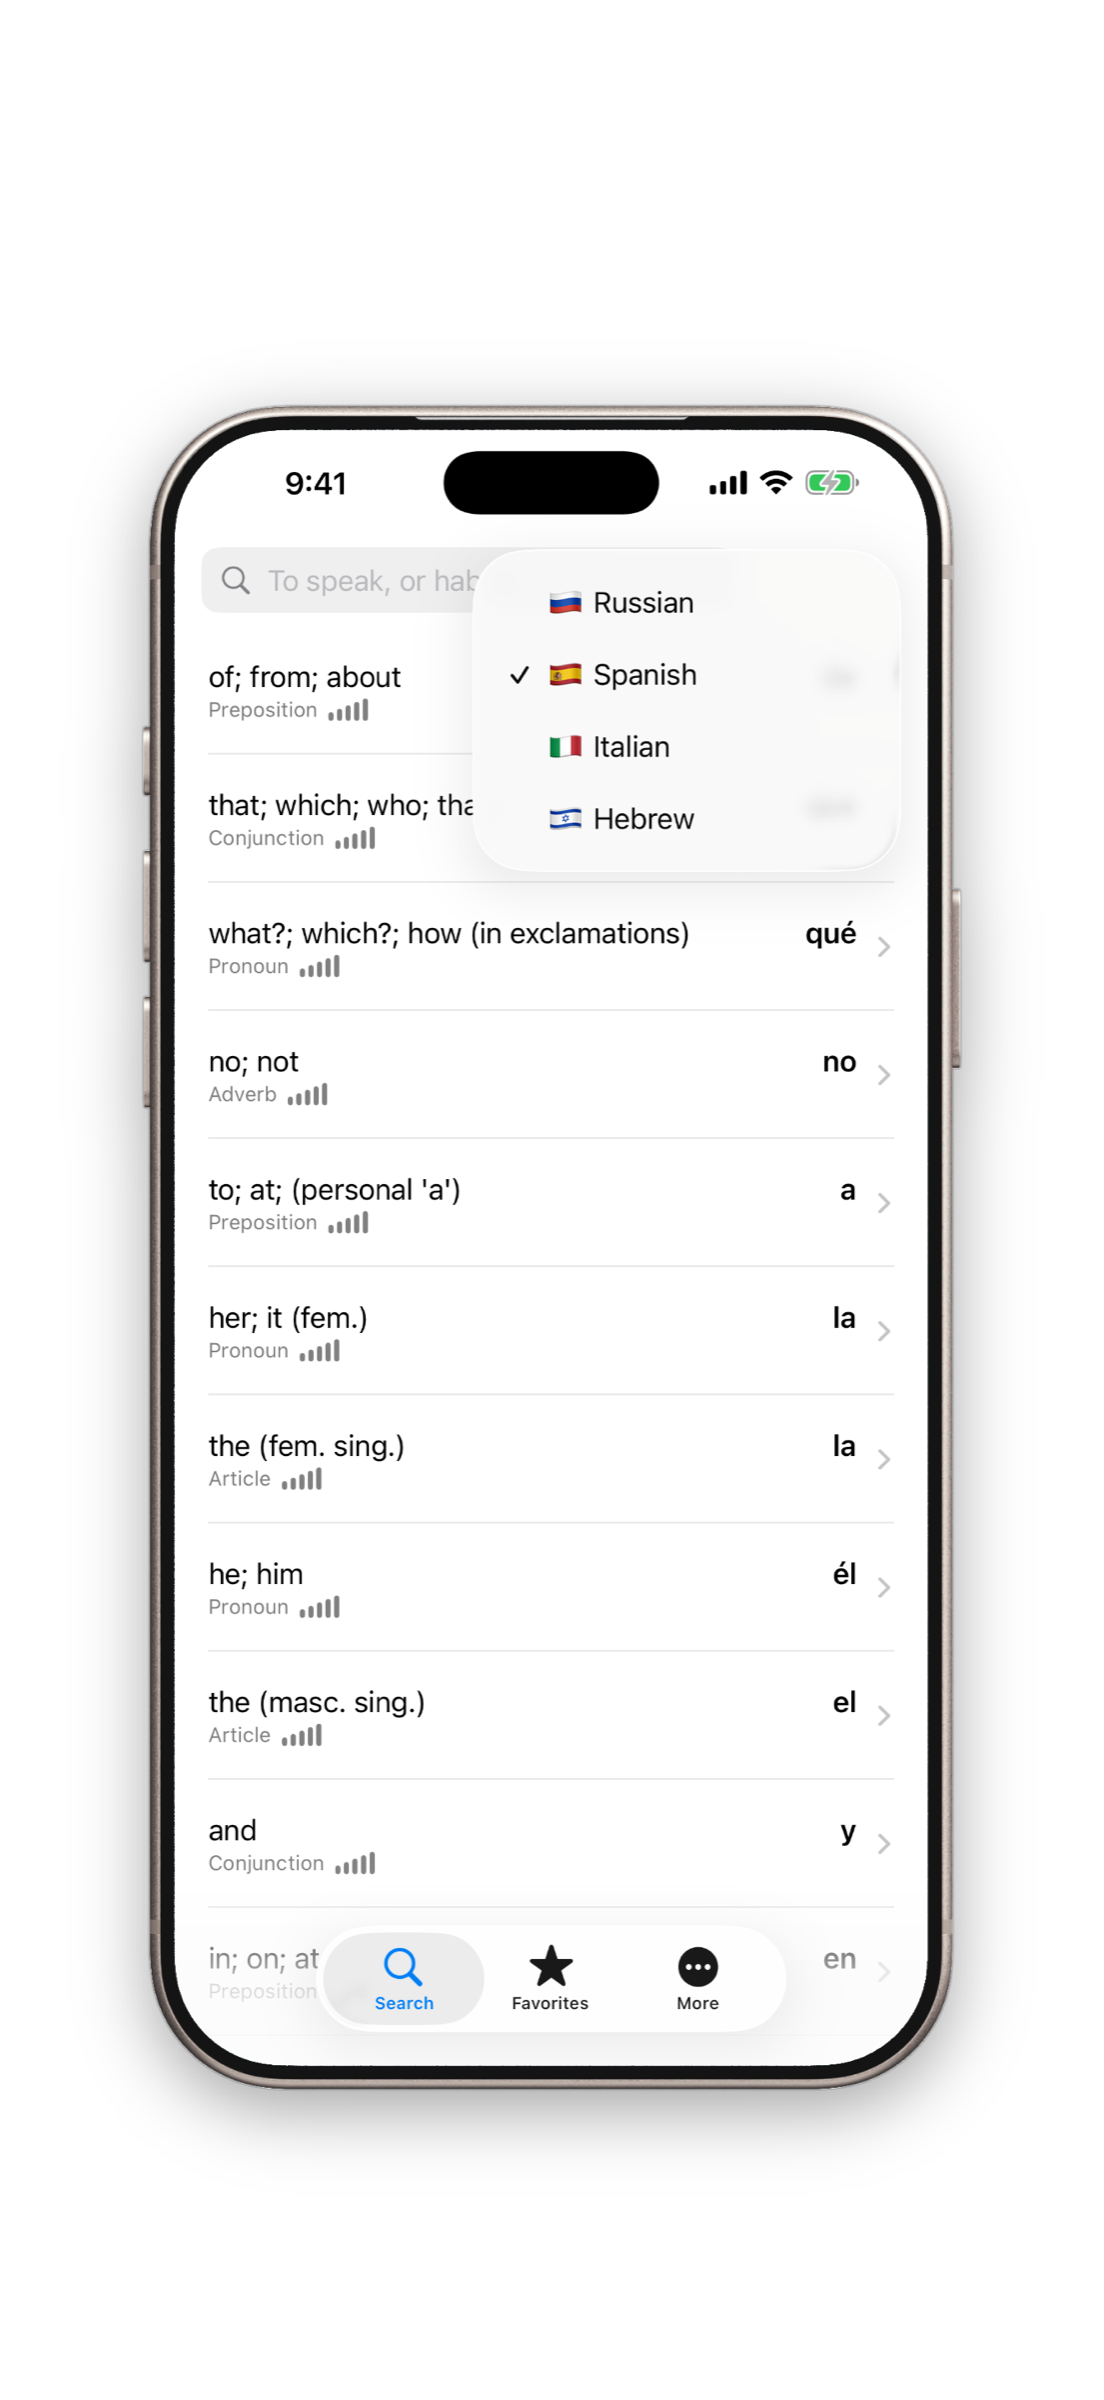
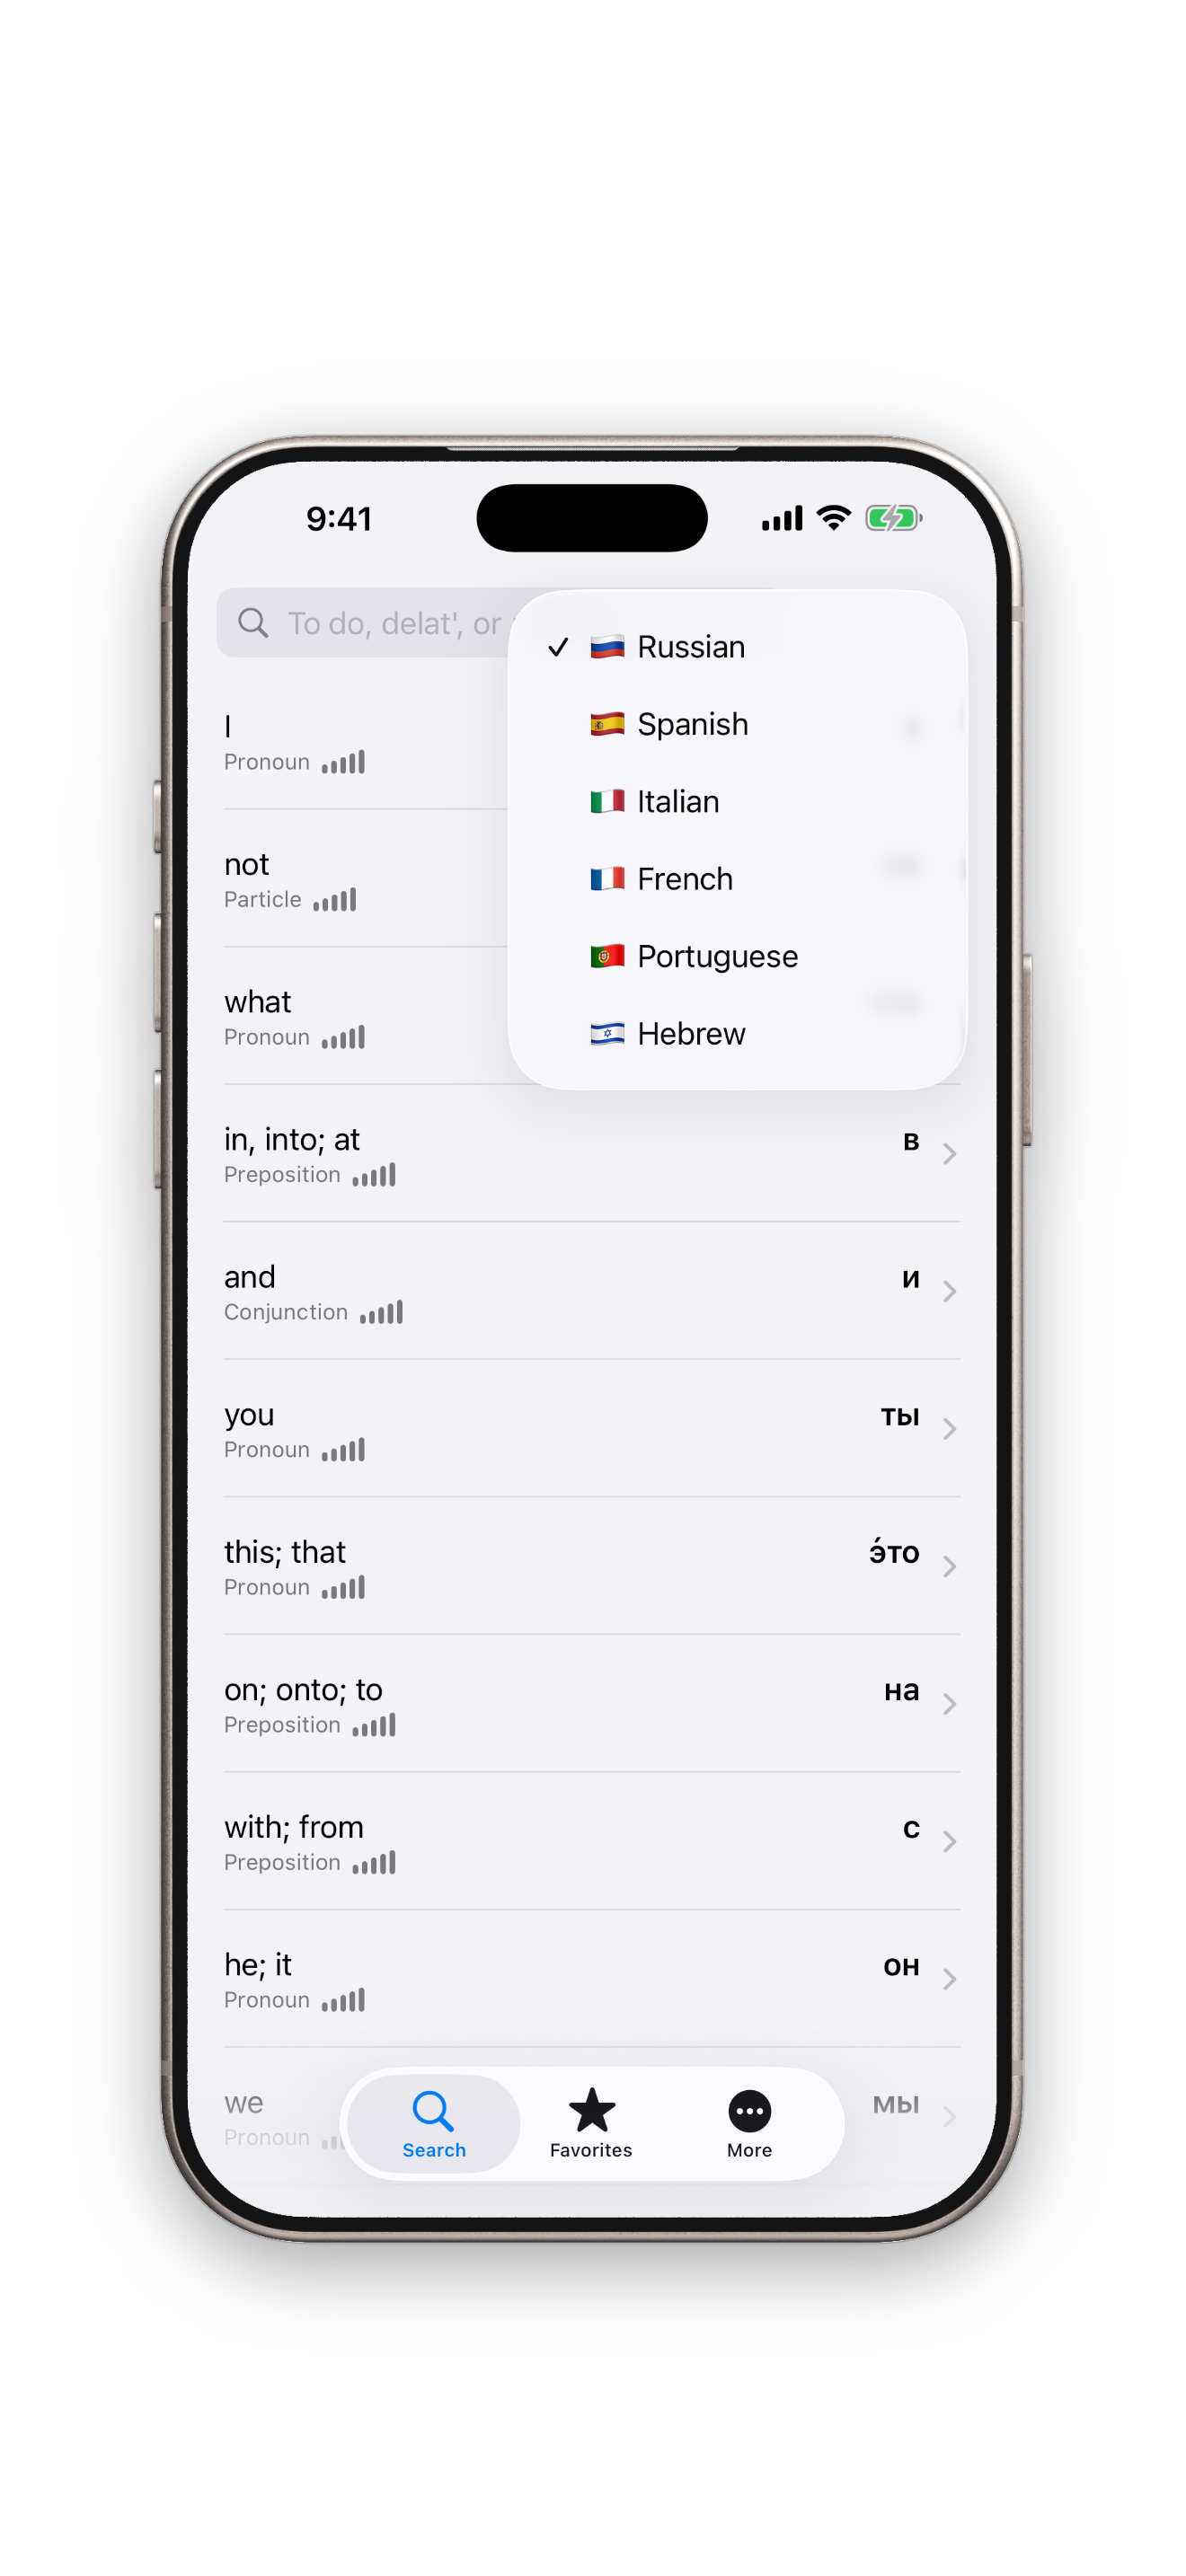
Use framed screenshots for French, Portuguese, and hero dropdown
The French and Portuguese pages now use framed captures like the other
four languages instead of raw captures in a CSS frame, and the homepage
hero center phone shows the six-language dropdown.

Claude-Session: https://claude.ai/code/session_011xa2pL4yvVYgio2WjePZip

diff --git a/src/config/languages.ts b/src/config/languages.ts
@@ -121,9 +121,8 @@ export const dictionaryPages: DictionaryPageConfig[] = [
         description: "Search French conjugated forms offline on iPhone. Verbik finds the infinitive and shows sourced meanings, detailed verb tables, pronunciation, examples, nouns, and adjectives.",
         heading: "A French verb dictionary that starts with the form you found",
         intro: "Search a French headword, conjugated form, inflected noun or adjective, or English meaning. Verbik identifies the dictionary entry, explains the match, and keeps the complete reference available offline.",
-        image: "/apps/verbik/app-verbik-home-french.png",
-        imageAlt: "Verbik French dictionary home screen on iPhone",
-        imageIsRaw: true,
+        image: "/apps/verbik/app-verbik-home-french-framed.png",
+        imageAlt: "Verbik French dictionary home screen in the app's iPhone frame",
         sourceSummary: "Meanings, grammatical forms, usage labels, IPA, audio, and Wiktionary examples trace to a pinned July 2026 English Wiktionary snapshot extracted by Kaikki/Wiktextract under CC BY-SA 3.0. Additional translated examples retain exact Tatoeba sentence IDs and URLs under CC BY 2.0 FR. Frequency ordering uses pinned wordfreq 3.1.1 data under Apache-2.0.",
         sourceLinks: [
             { label: "Wiktionary snapshot via Kaikki/Wiktextract", url: "https://kaikki.org/dictionary/rawdata.html" },
@@ -158,9 +157,8 @@ export const dictionaryPages: DictionaryPageConfig[] = [
         description: "Search European Portuguese conjugated forms offline on iPhone. Verbik finds the infinitive and shows sourced meanings, complete grammar, pronunciation, examples, nouns, and adjectives.",
         heading: "A European Portuguese dictionary for the form you actually saw",
         intro: "Enter a European Portuguese headword, conjugated form, inflected noun or adjective, or English meaning. Verbik identifies the entry, explains the match, and keeps the full dictionary available offline.",
-        image: "/apps/verbik/app-verbik-home-portuguese.png",
-        imageAlt: "Verbik European Portuguese dictionary home screen on iPhone",
-        imageIsRaw: true,
+        image: "/apps/verbik/app-verbik-home-portuguese-framed.png",
+        imageAlt: "Verbik European Portuguese dictionary home screen in the app's iPhone frame",
         sourceSummary: "Meanings, grammatical forms, usage labels, IPA, audio, and Wiktionary examples trace to a pinned July 2026 English Wiktionary snapshot extracted by Kaikki/Wiktextract under CC BY-SA 3.0. Additional translated examples retain exact Tatoeba sentence IDs and URLs under CC BY 2.0 FR. Frequency ordering uses pinned wordfreq 3.1.1 data under Apache-2.0.",
         sourceLinks: [
             { label: "Wiktionary snapshot via Kaikki/Wiktextract", url: "https://kaikki.org/dictionary/rawdata.html" },